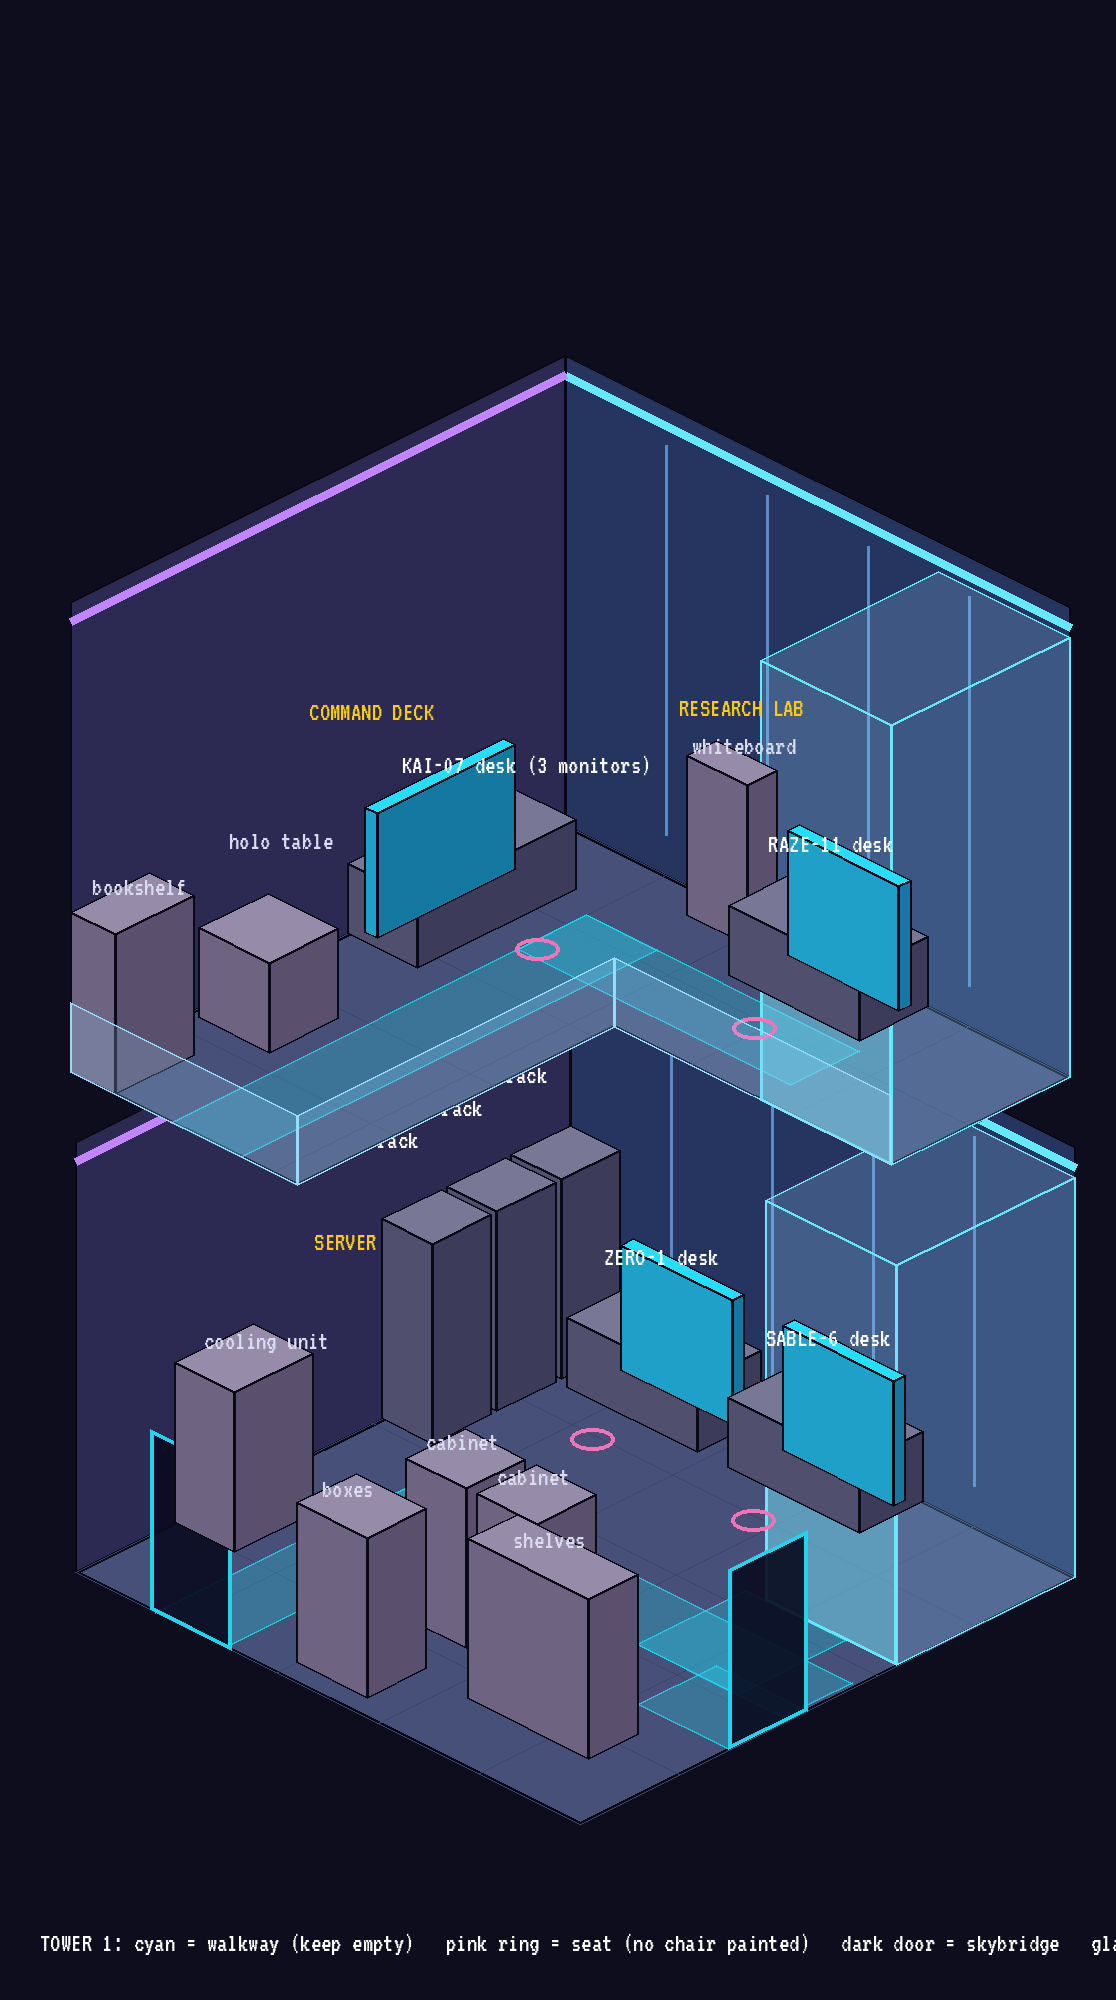
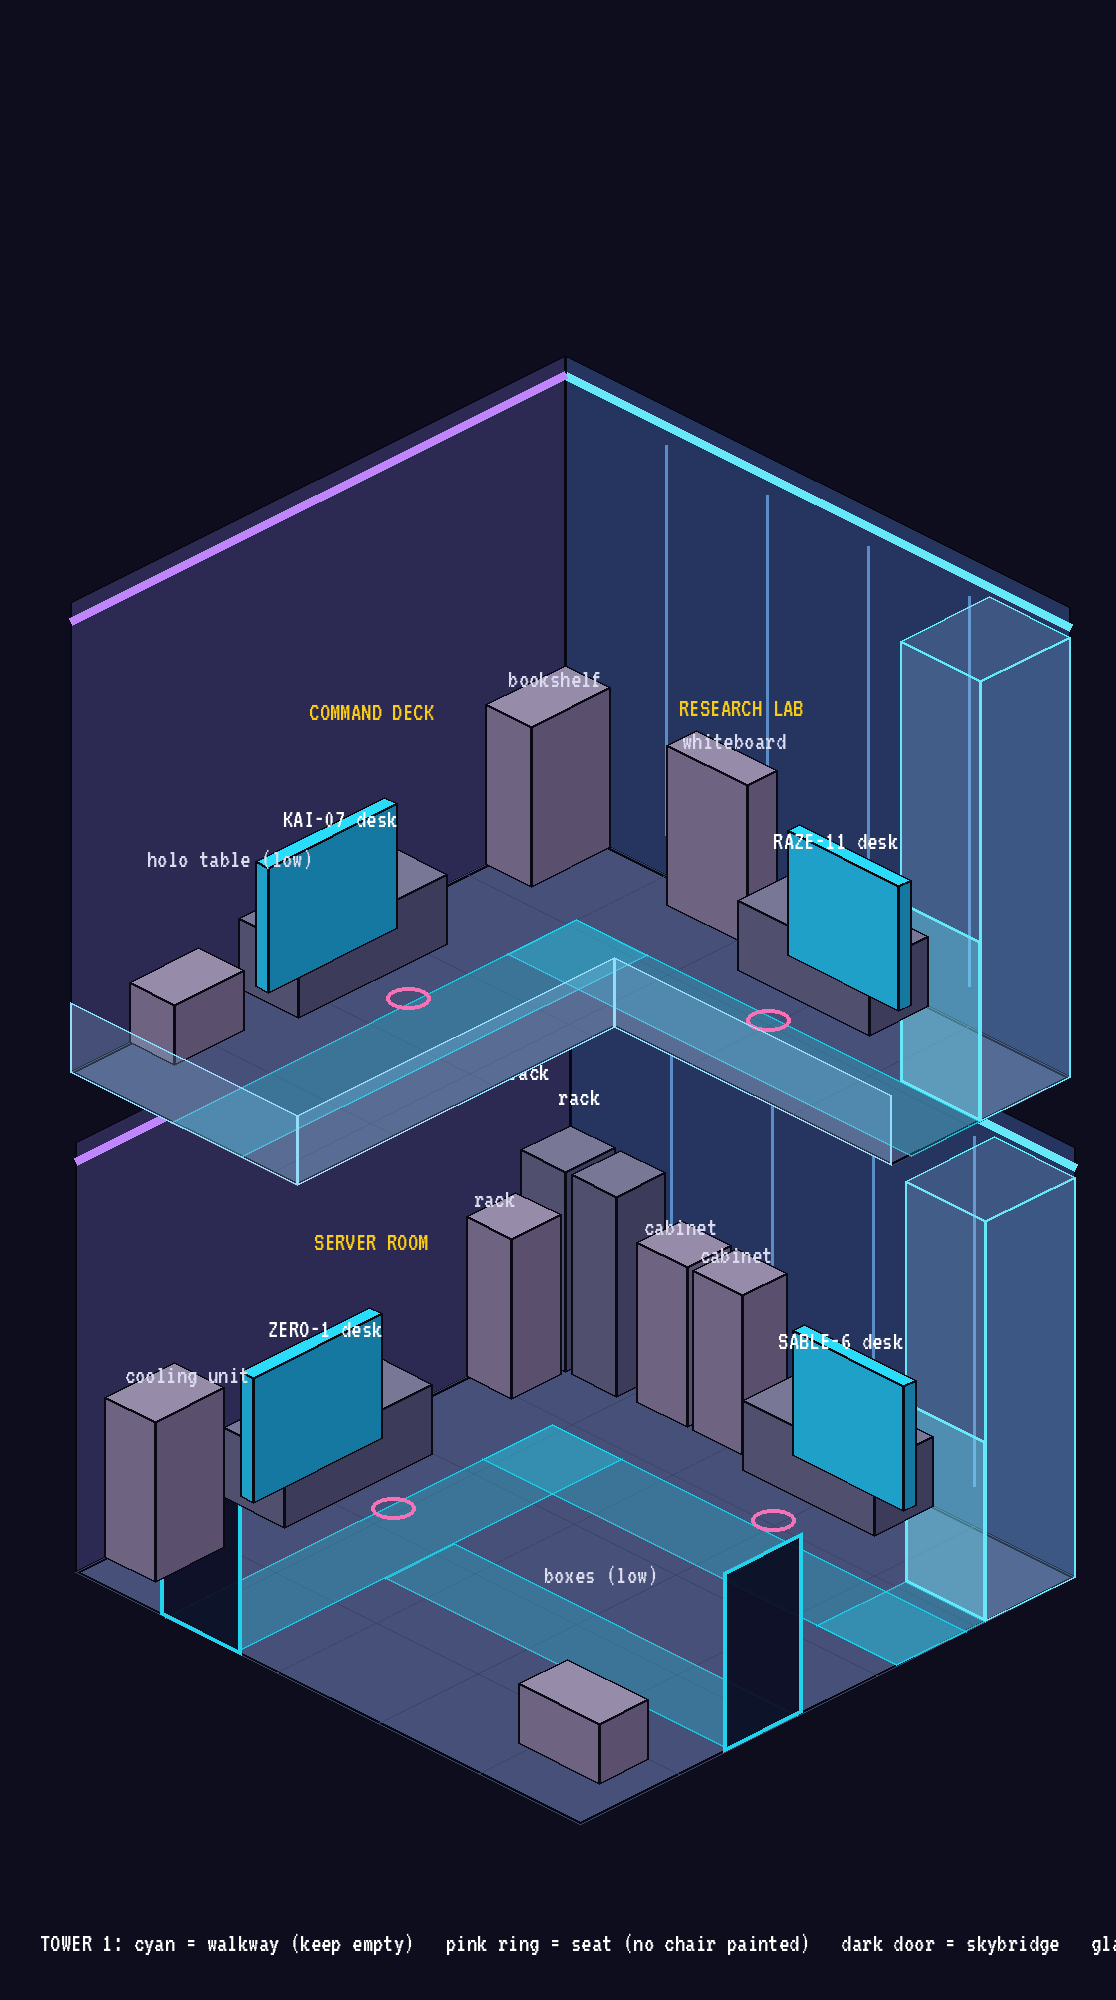
Layout guides v2: tall items on back walls, low items in front, compact lift
Claude-Session: https://claude.ai/code/session_01RbqhMKHrdZ1dNBtywxM96j

Changed region(s): [[0.0914, 0.279, 0.8835, 0.899], [0.0609, 0.31, 0.5484, 0.558], [0.853, 0.341, 0.8835, 0.372]]

diff --git a/EtsyBusinessOS/tools/blockout.py b/EtsyBusinessOS/tools/blockout.py
@@ -27,34 +27,34 @@ def box(d, lv, u, v, a, b, h, top, left, right, line=(10, 10, 20)):
 
 
 FLOOR_U = [(0, 0), (10, 0), (10, 3.6), (4.5, 3.6), (4.5, 10), (0, 10)]
-LIFT = (7.4, 0, 2.6, 3.6)
+LIFT = (8.4, 0, 1.6, 1.8)
 # walkways (rectangles in grid units u0,v0,u1,v1)
 WALK = {
-    "l": [(1.6, 4.4, 9.9, 5.8), (1.6, 4.4, 3.0, 10), (7.0, 3.6, 9.0, 5.8), (8.2, 5.4, 10, 7.0)],
-    "u": [(2.0, 1.6, 7.4, 3.0), (2.0, 1.6, 3.4, 10)],
+    "l": [(1.8, 2.2, 10, 3.6), (1.8, 2.2, 3.2, 10), (8.4, 1.8, 10, 3.6), (3.2, 5.6, 10, 7.0)],
+    "u": [(2.0, 1.8, 10, 3.2), (2.0, 1.8, 3.4, 10)],
 }
-DOORS = {"l": [(2.3, 10, "v"), (10, 6.2, "u")]}   # bridge doors: left side (front-left edge) and right side
+DOORS = {"l": [(2.5, 10, "v"), (10, 6.3, "u")]}   # bridge doors: left side (front-left edge) and right side
 
 # Desks: (u, v, a, b, wall, label); seat is in front of the desk (back of the NPC to the camera)
 TOWERS = {
-    1: {"u": [("COMMAND DECK", [(0, 1.2, 1.4, 3.2, "L", "KAI-07 desk (3 monitors)")], [(0.2, 6.2, 1.4, 1.4, "holo table"), (0, 8.4, .9, 1.6, "bookshelf")]),
-              ("RESEARCH LAB", [(4.6, 0, 2.6, 1.4, "R", "RAZE-11 desk")], [(3.0, 0, 1.2, .6, "whiteboard")])],
-        "l": [("SERVER ROOM", [(0.0, 0.0, 1.0, 1.2, "-", "rack"), (0.0, 1.3, 1.0, 1.2, "-", "rack"), (0.0, 2.6, 1.0, 1.2, "-", "rack"), (1.2, 0, 2.6, 1.3, "R", "ZERO-1 desk")], [(0, 6.4, 1.2, 1.6, "cooling unit")]),
-              ("ARCHIVE", [(4.4, 0, 2.6, 1.3, "R", "SABLE-6 desk")], [(4.2, 6.4, 1.2, 1.2, "cabinet"), (5.6, 6.4, 1.2, 1.2, "cabinet"), (6.4, 7.6, 2.4, 1.0, "shelves"), (4.0, 8.4, 1.4, 1.2, "boxes")])]},
-    2: {"u": [("WRITERS STUDIO", [(0, 1.6, 1.4, 3.0, "L", "JUNO-X9 desk")], [(0, 6.0, .8, 2.4, "bookshelf"), (0.2, 8.6, 1.4, 1.2, "bean bag")]),
-              ("QA BAY", [(4.6, 0, 2.6, 1.4, "R", "VOLT-3 desk")], [(3.2, 0, 1.2, 1.4, "scanner arch")])],
-        "l": [("SHOP FLOOR", [(1.2, 0, 2.6, 1.3, "R", "NYX-21 desk + approval button")], [(0, 0, 1.0, 1.0, "plant"), (0, 6.4, 1.2, 2.6, "shop counter"), (4.0, 7.2, 2.2, 1.3, "packing table")]),
-              ("FINANCE VAULT", [(4.4, 0, 2.6, 1.3, "R", "KADE-12 desk")], [(7.4, 7.2, 1.4, 1.4, "safe"), (5.4, 7.4, 1.4, 1.0, "gold coins"), (9.6, 8.0, .4, 1.8, "vault door (wall)")])]},
-    3: {"u": [("GROWTH STUDIO", [(0, 1.6, 1.4, 2.8, "L", "HEX-04 desk")], [(0, 6.2, .4, 2.4, "green screen"), (0.8, 8.6, 1.2, 1.2, "ring light + camera")]),
-              ("DATA ROOM", [(4.6, 0, 2.6, 1.4, "R", "ORIN-88 desk")], [(3.2, 0, 1.2, .5, "dashboard wall")])],
-        "l": [("LOUNGE & PANTRY", [], [(0, 0, 1.2, 1.2, "vending"), (0, 1.3, 1.0, 1.0, "coffee"), (0, 2.4, 1.0, 1.0, "fridge+microwave"), (1.2, 0, 1.2, 1.0, "arcade blue"), (2.6, 0, 1.2, 1.0, "arcade pink"),
-                                         (3.6, 6.4, 2.6, 1.2, "couch"), (4.0, 7.8, 1.6, 1.0, "coffee table"), (0.4, 6.8, 1.0, 1.0, "bean bag"), (0.4, 8.4, 1.0, 1.0, "bean bag"), (6.4, 7.6, 3.0, 1.8, "ping-pong")])]},
+    1: {"u": [("COMMAND DECK", [(0, 3.6, 1.2, 3.0, "L", "KAI-07 desk")], [(0, 0, .9, 1.6, "bookshelf"), (0, 7.4, .9, 1.4, "holo table (low)")]),
+              ("RESEARCH LAB", [(4.6, 0, 2.6, 1.2, "R", "RAZE-11 desk")], [(2.6, 0, 1.6, .6, "whiteboard")])],
+        "l": [("SERVER ROOM", [(0, 0, .9, 1.0, "-", "rack"), (1.0, 0, .9, 1.0, "-", "rack"), (0, 4.0, 1.2, 3.0, "L", "ZERO-1 desk")], [(0, 1.1, .9, 1.0, "rack"), (0, 8.0, 1.0, 1.4, "cooling unit")]),
+              ("ARCHIVE", [(4.6, 0, 2.6, 1.2, "R", "SABLE-6 desk")], [(2.2, 0, 1.0, .9, "cabinet"), (3.3, 0, 1.0, .9, "cabinet"), (7.8, 8.0, 1.6, 1.0, "boxes (low)")])]},
+    2: {"u": [("WRITERS STUDIO", [(0, 3.6, 1.2, 3.0, "L", "JUNO-X9 desk")], [(0, 0, .8, 2.4, "bookshelf"), (0, 7.6, 1.2, 1.2, "bean bag (low)")]),
+              ("QA BAY", [(4.6, 0, 2.6, 1.2, "R", "VOLT-3 desk")], [(2.6, 0, 1.6, .9, "scanner arch")])],
+        "l": [("SHOP FLOOR", [(0, 4.0, 1.2, 3.0, "L", "NYX-21 desk + approval button")], [(0, 0, 1.0, 2.4, "shop counter"), (4.2, 8.0, 2.2, 1.2, "packing table (low)")]),
+              ("FINANCE VAULT", [(4.6, 0, 2.6, 1.2, "R", "KADE-12 desk")], [(2.2, 0, 1.4, .3, "vault door (wall)"), (3.4, .2, 1.0, .9, "safe"), (7.6, 8.0, 1.4, 1.0, "gold coins (low)")])]},
+    3: {"u": [("GROWTH STUDIO", [(0, 3.6, 1.2, 3.0, "L", "HEX-04 desk")], [(0, 0, .3, 2.6, "green screen"), (0, 7.6, 1.2, 1.2, "bean bag (low)")]),
+              ("DATA ROOM", [(4.6, 0, 2.6, 1.2, "R", "ORIN-88 desk")], [(2.6, 0, 1.6, .3, "dashboard wall")])],
+        "l": [("LOUNGE & PANTRY", [], [(0, 0, 1.0, 1.0, "vending"), (0, 1.1, .9, .9, "coffee"), (1.1, 0, 1.0, .9, "fridge"), (2.3, 0, 1.0, .9, "arcade blue"), (3.5, 0, 1.0, .9, "arcade pink"),
+                                         (0, 4.0, 1.2, 2.6, "couch (low)"), (1.6, 4.4, 1.0, 1.8, "coffee table (low)"), (4.4, 8.0, 1.2, 1.2, "bean bag (low)"), (6.0, 8.2, 1.2, 1.2, "bean bag (low)"), (6.6, 3.8, 2.6, 1.4, "ping-pong (low)")])]},
 }
 
 
 def seat_of(d):
     u, v, a, b, wall, _ = d
-    return (u + a / 2, v + b + .8) if wall == "R" else (u + a + .8, v + b / 2) if wall == "L" else None
+    return (u + a / 2, v + b + .7) if wall == "R" else (u + a + .7, v + b / 2) if wall == "L" else None
 
 
 def render(t, annotated):
@@ -121,7 +121,7 @@ def render(t, annotated):
                     x, y = P(lv, u + a / 2, v + b / 2, hh + 90); d.text((x - 60, y), label, fill=(255, 255, 255), font=font)
             else:
                 u, v, a, b, label = it
-                box(d, lv, u, v, a, b, 90 if any(k in label for k in ("bean", "table", "coins", "ping")) else 160, (150, 140, 170), (110, 100, 130), (90, 80, 110))
+                box(d, lv, u, v, a, b, 60 if "(low)" in label else 160, (150, 140, 170), (110, 100, 130), (90, 80, 110))
                 if annotated:
                     x, y = P(lv, u + a / 2, v + b / 2, 190); d.text((x - 40, y), label, fill=(220, 220, 240), font=font)
     # mezzanine glass railing (front edges of the upper level)
